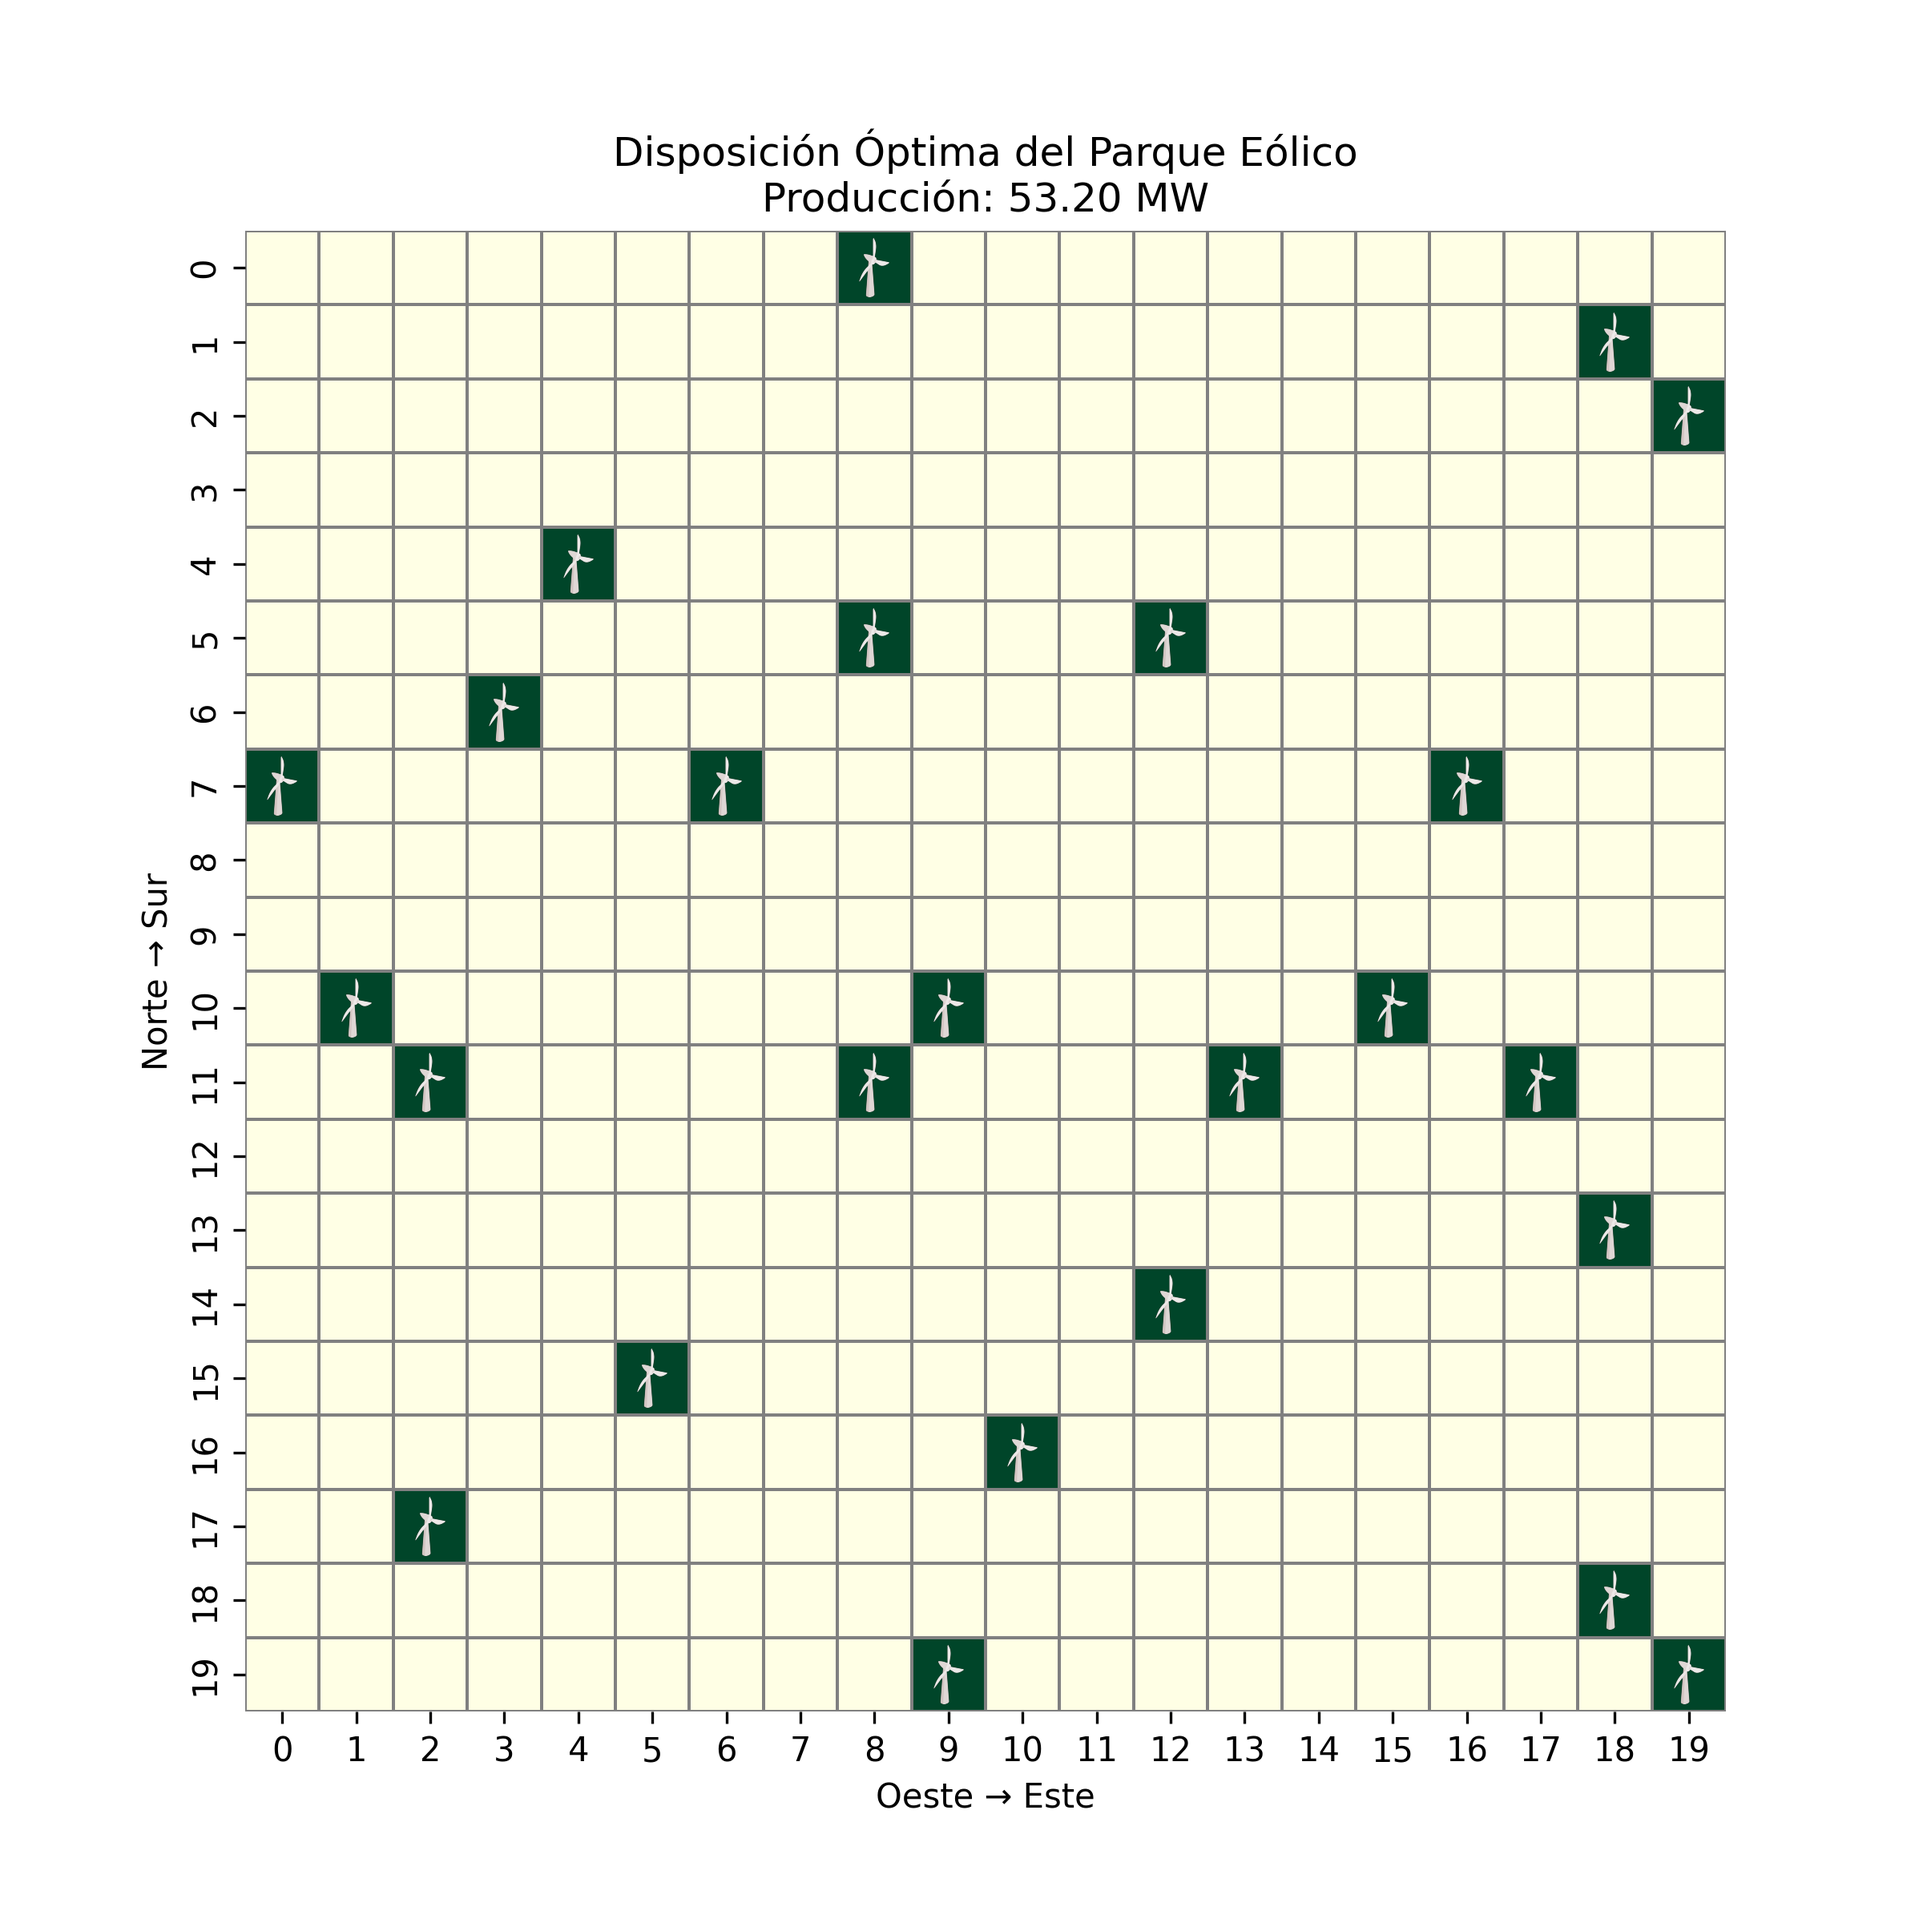
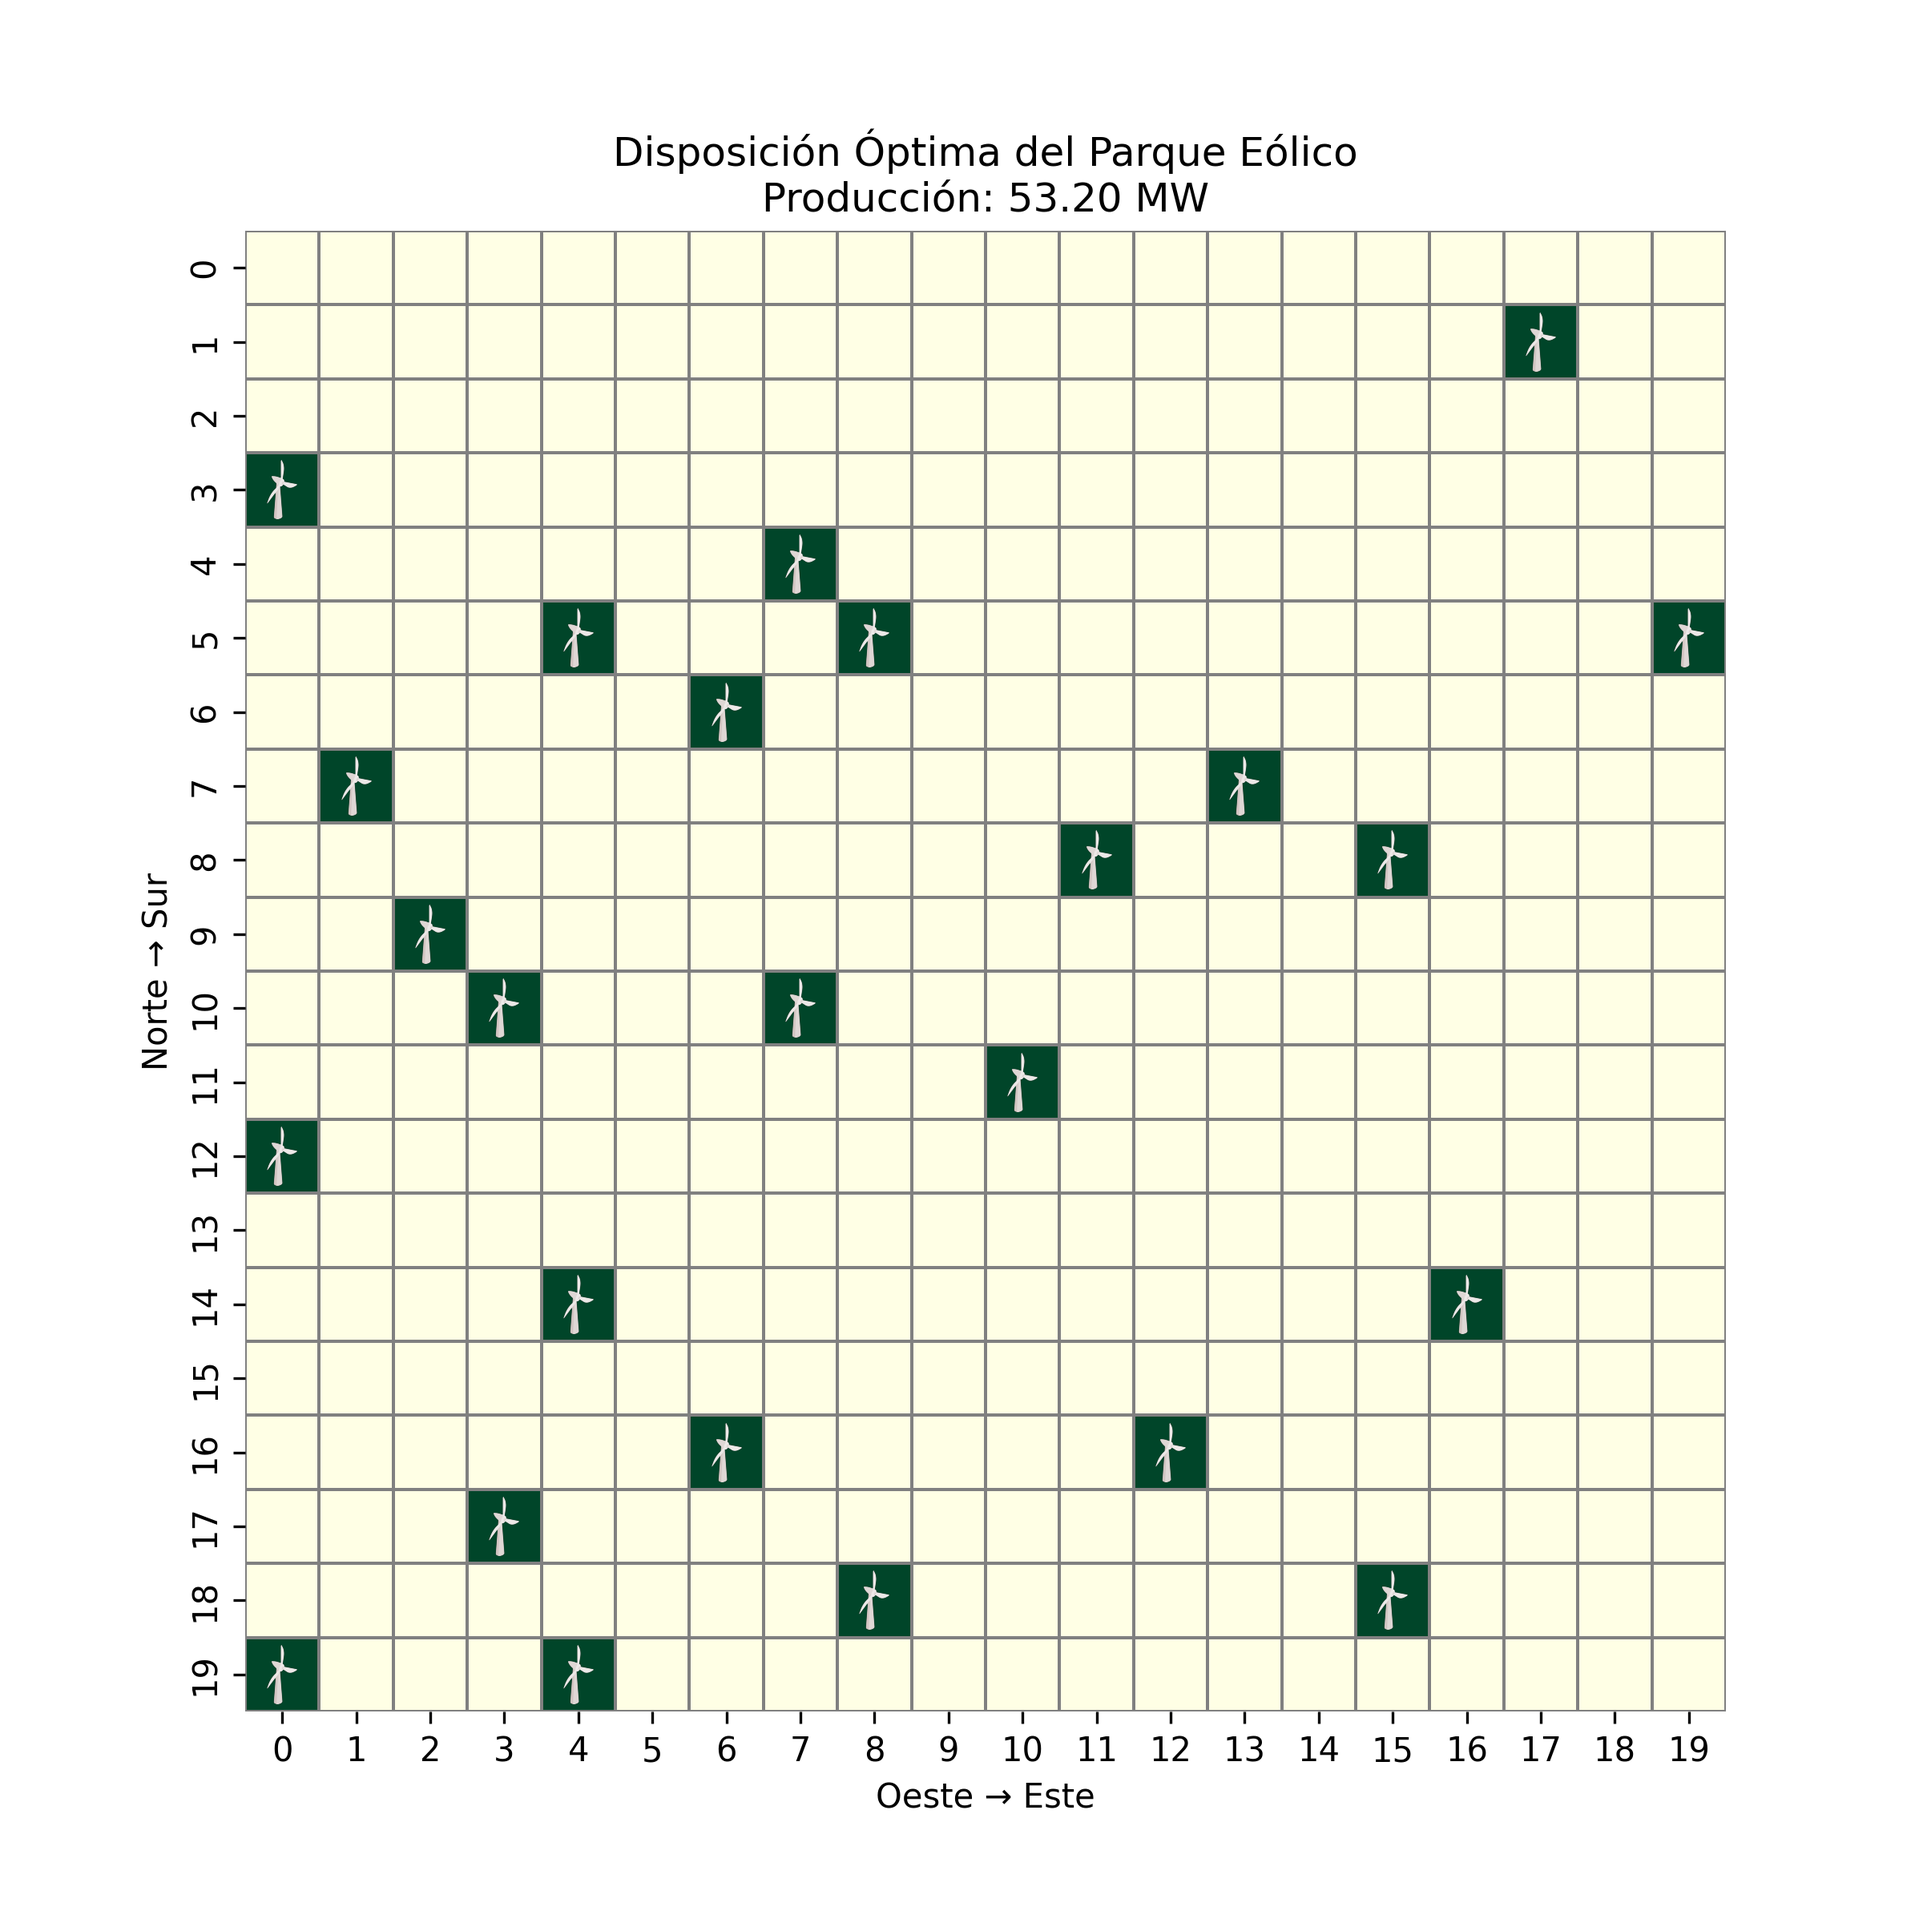
TestEstadistico

diff --git a/ProyectoAerogeneradores/main.py b/ProyectoAerogeneradores/main.py
@@ -6,6 +6,7 @@ import random
 import math
 from deap import base, creator, tools, algorithms
 import time
+import scipy.stats as stats
 
 # ==========================================
 # CONSTANTES DEL PROBLEMA
@@ -310,8 +311,137 @@ def correr_analisis_comparativo():
     if mejor_campeon_global is not None:
         graficar_mapa_campeon(mejor_campeon_global)
 
+    # Realizar análisis de normalidad (KS)
+    realizar_test_normalidad_ks(todos_los_resultados)
+
+    # Realizar análisis comparativo de distribuciones (Kruskal-Wallis)
+    realizar_test_kruskal_wallis(todos_los_resultados)
+
+    # Realizar análisis comparativo por parejas (Wilcoxon)
+    realizar_test_wilcoxon_parejas(todos_los_resultados)
+
+
+def realizar_test_normalidad_ks(todos_los_resultados):
+    """
+    Aplica el test de normalidad de Kolmogorov-Smirnov sobre los datos en memoria,
+    imprimiendo en consola si son o no normales de forma directa.
+    """
+    print("\n" + "=" * 80)
+    print(" ANÁLISIS DE NORMALIDAD (TEST DE KOLMOGOROV-SMIRNOV)")
+    print("=" * 80)
+    
+    alpha = 0.05
+    for nombre, valores in todos_los_resultados.items():
+        arr_valores = np.array(valores)
+        media = np.mean(arr_valores)
+        desv = np.std(arr_valores, ddof=1)
+        
+        print(f"Escenario: {nombre}")
+        
+        # Caso de varianza cero
+        if desv == 0:
+            print("  Resultado: NO ES NORMAL (Varianza nula, todos los valores son idénticos)")
+            print("-" * 80)
+            continue
+            
+        # Test Kolmogorov-Smirnov contra una distribución normal de misma media y desviación estándar
+        stat, p_val = stats.kstest(arr_valores, 'norm', args=(media, desv))
+        
+        es_normal = p_val >= alpha
+        resultado_str = "SÍ ES NORMAL (Éxito)" if es_normal else "NO ES NORMAL (Fallo)"
+        
+        print(f"  Estadístico KS: {stat:.5f} | p-valor: {p_val:.5e}")
+        print(f"  Resultado: {resultado_str}")
+        print("-" * 80)
+    print("=" * 80 + "\n")
+
+
+def realizar_test_kruskal_wallis(todos_los_resultados):
+    """
+    Aplica el test no paramétrico de Kruskal-Wallis sobre las distribuciones 
+    de los 4 escenarios para verificar si son estadísticamente iguales entre sí.
+    """
+    print("\n" + "=" * 80)
+    print(" ANÁLISIS COMPARATIVO DE DISTRIBUCIONES: TEST DE KRUSKAL-WALLIS")
+    print("=" * 80)
+    print("Hipótesis Nula (H0): Los 4 escenarios tienen distribuciones idénticas (medianas iguales).")
+    print("Hipótesis Alternativa (H1): Al menos un escenario difiere significativamente.\n")
+    
+    alpha = 0.05
+    listas_valores = list(todos_los_resultados.values())
+    
+    # Ejecución del test de Kruskal-Wallis
+    stat, p_val = stats.kruskal(*listas_valores)
+    
+    # Interpretación
+    son_iguales = p_val >= alpha
+    resultado_str = "SÍ SON IGUALES (No se rechaza H0 - No hay diferencias significativas)" if son_iguales else "NO SON IGUALES (Se rechaza H0 - Hay diferencias significativas)"
+    
+    print(f"Estadístico H de Kruskal-Wallis: {stat:.5f}")
+    print(f"p-valor: {p_val:.5e}")
+    print(f"Resultado: {resultado_str}")
+    print("=" * 80 + "\n")
+
+
+def realizar_test_wilcoxon_parejas(todos_los_resultados):
+    """
+    Realiza el test de rangos con signo de Wilcoxon entre todos los pares posibles 
+    de los 4 escenarios para verificar si existen diferencias significativas entre ellas.
+    """
+    import itertools
+    
+    print("\n" + "=" * 80)
+    print(" ANÁLISIS COMPARATIVO EN PAREJAS: TEST DE WILCOXON")
+    print("=" * 80)
+    print("Hipótesis Nula (H0): No hay diferencia sistemática entre ambos escenarios.")
+    print("Hipótesis Alternativa (H1): Existe una diferencia significativa entre ambos escenarios.")
+    print("Nivel de significancia (alpha): 0.05\n")
+    
+    nombres = list(todos_los_resultados.keys())
+    pares = list(itertools.combinations(nombres, 2))
+    
+    alpha = 0.05
+    
+    for esc1, esc2 in pares:
+        val1 = np.array(todos_los_resultados[esc1])
+        val2 = np.array(todos_los_resultados[esc2])
+        
+        print(f"Comparación: {esc1} vs {esc2}")
+        
+        # Verificar si todos los elementos son idénticos en diferencia (varianza cero de la diferencia)
+        diff = val1 - val2
+        if np.all(diff == 0):
+            print("  Estadístico Wilcoxon: N/A (Muestras idénticas)")
+            print("  p-valor: 1.00000e+00")
+            print("  Resultado: SIN DIFERENCIA (Fallo - Muestras idénticas)")
+            print("-" * 80)
+            continue
+            
+        try:
+            # Test Wilcoxon Signed-Rank
+            stat, p_val = stats.wilcoxon(val1, val2)
+            
+            # Interpretación
+            hay_diferencia = p_val < alpha
+            resultado_str = "DIFERENCIA DETECTADA (Éxito - Se rechaza H0)" if hay_diferencia else "SIN DIFERENCIA (Fallo - No se rechaza H0)"
+            
+            print(f"  Estadístico Wilcoxon: {stat:.1f}")
+            print(f"  p-valor: {p_val:.5e}")
+            print(f"  Resultado: {resultado_str}")
+            
+        except Exception as e:
+            # Control por si falla por otra razón estadística
+            print(f"  No se pudo realizar el test Wilcoxon: {e}")
+            
+        print("-" * 80)
+    print("=" * 80 + "\n")
+
+
+
+
 
 def imprimir_tabla_resumen(datos):
+
     """Muestra una tabla formateada con los resultados del análisis."""
     print("\n" + "=" * 115)
     print(
